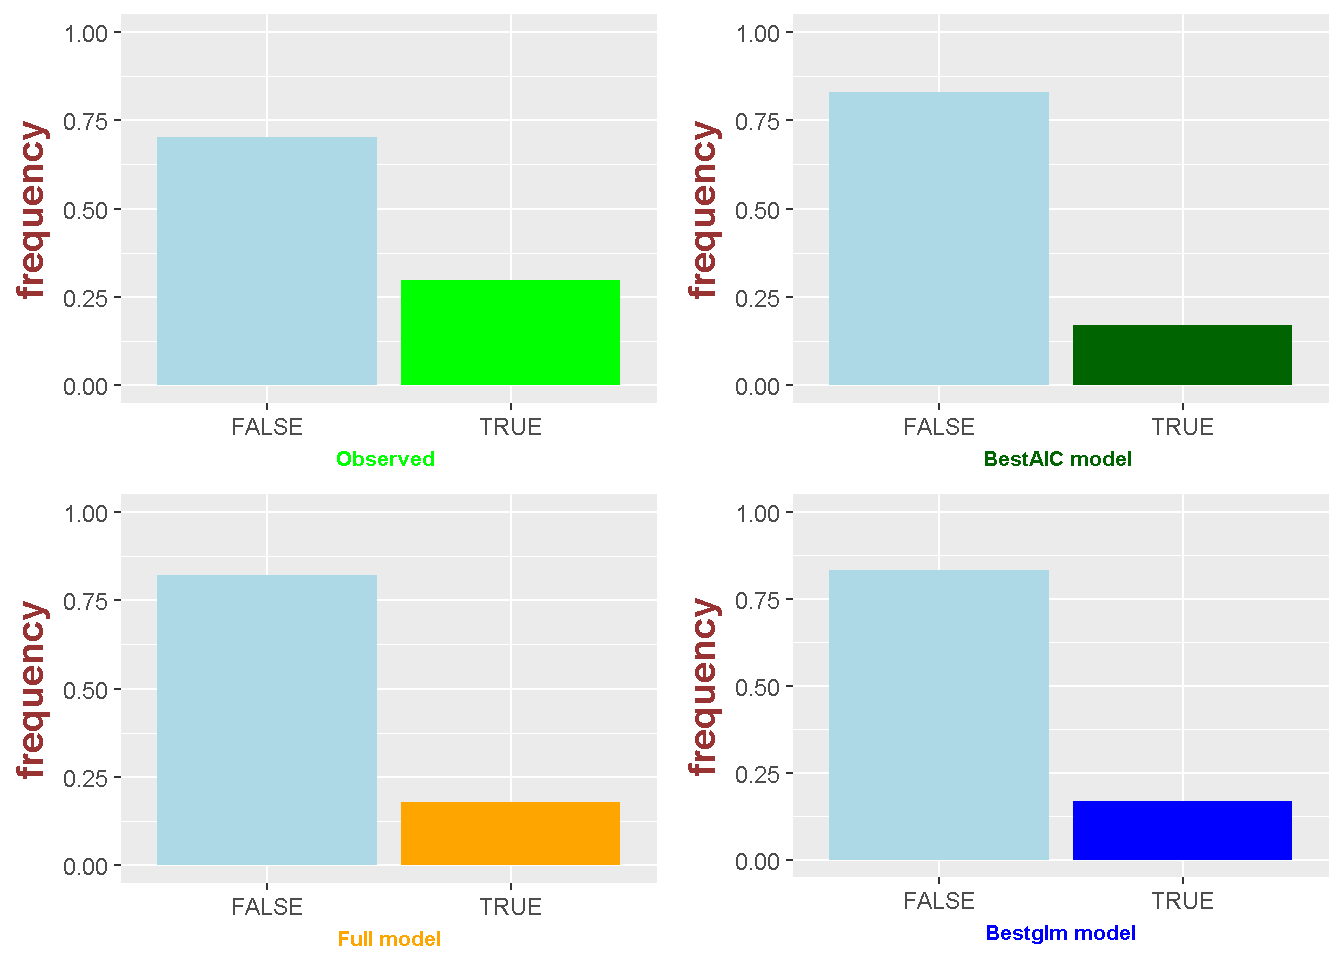
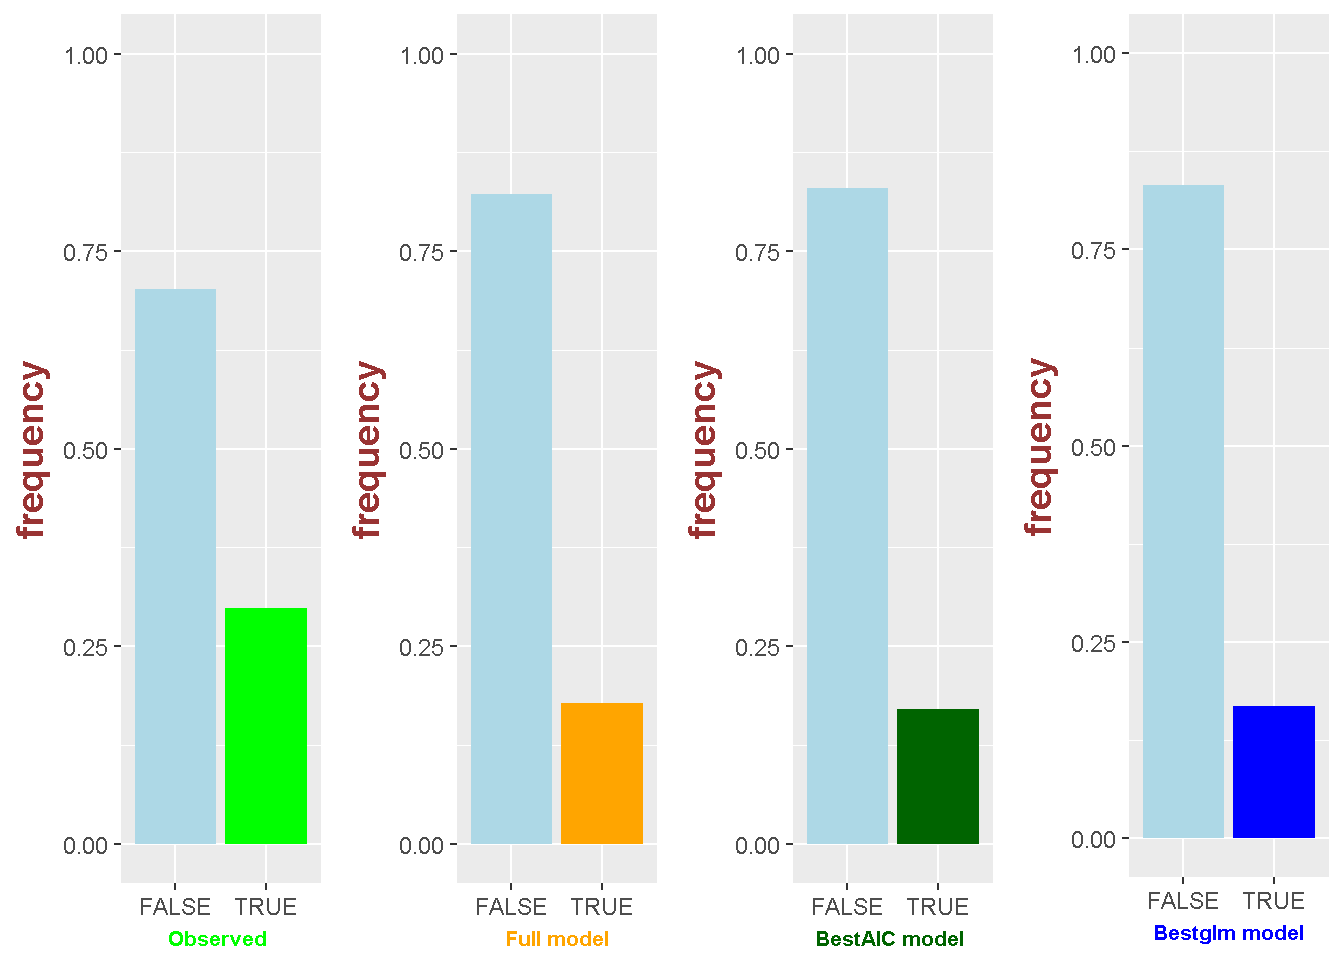
Last commit

diff --git a/chapter3.html b/chapter3.html
@@ -450,16 +450,14 @@ loss_func(class = alc_study$high_use, alc_study$probability)#Training error of t
 <h3>Cross validation</h3>
 <p>Cross-validation tests the model on unseen data, i.e. data not used for generating the model. The lower the value the more accurate the model. Cross-validation can also be used to compare models.</p>
 <pre class="r"><code>#Errors computed and stored
-cv &lt;- cv.glm(data = alc_study, cost = loss_func, glmfit = m2, K = 10)
-cv$delta[1] # Print the average number of wrong predictions.</code></pre>
-<pre><code>## [1] 0.2643979</code></pre>
+cv &lt;- cv.glm(data = alc_study, cost = loss_func, glmfit = m2, K = 10)</code></pre>
 <p>A ten-fold cross-validation shows that on average approximately 26% of the observations are missclassified under our model with three explanatory variables: sex, famrel and absencees. The average number of wrong predictions in the cross-validation is thus about the same as in the DataCamp exercise (26%).</p>
 <p>However, if the goal of a study like this would be to identify, and thereafter to implement measures to control risk factors for high alcohol usage we would not succeed very well. It seems that the model is still missing relevant risk factors. Thus, I will try to improve the model by including another variable, namely <span style="color:orange">age</span>, in the model.</p>
 <pre class="r"><code>mbetter&lt;-glm(high_use~famrel+absences+sex+age,family=binomial,data=alc)
 #Errors computed and stored
 cvbetter &lt;- cv.glm(data = alc, cost = loss_func, glmfit = mbetter, K = 10)
 cvbetter$delta[1] # Print the average number of wrong predictions.</code></pre>
-<pre><code>## [1] 0.2434555</code></pre>
+<pre><code>## [1] 0.2643979</code></pre>
 <p>Adding <span style="color:orange">age</span> to the model hardly improves the performance yielding just a little bit lower testing error.</p>
 </div>
 <div id="further-cross-validation-and-model-comparisons" class="section level3">
@@ -472,7 +470,7 @@ full&lt;-glm(high_use~.,family=binomial,data=alcs)
 #Errors computed and stored
 cvfull &lt;- cv.glm(data = alcs, cost = loss_func, glmfit = full, K = 10)
 cvfull$delta[1] # Print the average number of wrong predictions.</code></pre>
-<pre><code>## [1] 0.2303665</code></pre>
+<pre><code>## [1] 0.2382199</code></pre>
 <p>The full model based on this data set still has a reasonably high prediction error.</p>
 </div>
 <div id="model-reduction" class="section level4">
@@ -552,8 +550,8 @@ axis.title.x = element_text(color=&quot;blue&quot;, size=8, face=&quot;bold&quot
 axis.title.y = element_text(color=&quot;#993333&quot;, size=14, face=&quot;bold&quot;)
 )
 
-multiplot(ppobs, ppfull, ppAIC, ppbest,cols = 2)</code></pre>
[1 lines of base64/hex data omitted]
+multiplot(ppobs, ppfull, ppAIC, ppbest,cols = 4)</code></pre>
[1 lines of base64/hex data omitted]
 <table>
 <thead>
 <tr class="header">
@@ -583,8 +581,8 @@ multiplot(ppobs, ppfull, ppAIC, ppbest,cols = 2)</code></pre>
 </div>
 <div id="final-model-with-the-lowest-testing-error" class="section level4">
 <h4>Final model with the lowest testing error</h4>
-<p>The last model uses best subsets approach aiming to find out the best fit model from all possible subset models. It has only four predictors: sex, absences, family relationships and going out with friends. Using cross-validation it yield a test error of just below 22%, i.e. predicting almost 78% right.</p>
-<p>To conclude, the results of the final model as odds ratios with confidence intervals and summary statistis:</p>
+<p>The last model uses best subsets approach aiming to find out the best fit model from all possible subset models. It has <em>only four</em> explanatory variables: sex, absences, family relationships and going out with friends. Using cross-validation it yield a test error of just below 22%, i.e. predicting almost 78% right.</p>
+<p>To conclude, the results of the final model as odds ratios with confidence intervals:</p>
 <pre class="r"><code>stargazer(mbest, coef = list(OR.vector), ci = T, 
           ci.custom = list(CI.vector), p = list(p.values), 
           single.row = T, type = &quot;html&quot;,

diff --git a/index.html b/index.html
@@ -650,16 +650,14 @@ loss_func(class = alc_study$high_use, alc_study$probability)#Training error of t
 <h3>Cross validation</h3>
 <p>Cross-validation tests the model on unseen data, i.e. data not used for generating the model. The lower the value the more accurate the model. Cross-validation can also be used to compare models.</p>
 <pre class="r"><code>#Errors computed and stored
-cv &lt;- cv.glm(data = alc_study, cost = loss_func, glmfit = m2, K = 10)
-cv$delta[1] # Print the average number of wrong predictions.</code></pre>
-<pre><code>## [1] 0.2696335</code></pre>
+cv &lt;- cv.glm(data = alc_study, cost = loss_func, glmfit = m2, K = 10)</code></pre>
 <p>A ten-fold cross-validation shows that on average approximately 26% of the observations are missclassified under our model with three explanatory variables: sex, famrel and absencees. The average number of wrong predictions in the cross-validation is thus about the same as in the DataCamp exercise (26%).</p>
 <p>However, if the goal of a study like this would be to identify, and thereafter to implement measures to control risk factors for high alcohol usage we would not succeed very well. It seems that the model is still missing relevant risk factors. Thus, I will try to improve the model by including another variable, namely <span style="color:orange">age</span>, in the model.</p>
 <pre class="r"><code>mbetter&lt;-glm(high_use~famrel+absences+sex+age,family=binomial,data=alc)
 #Errors computed and stored
 cvbetter &lt;- cv.glm(data = alc, cost = loss_func, glmfit = mbetter, K = 10)
 cvbetter$delta[1] # Print the average number of wrong predictions.</code></pre>
-<pre><code>## [1] 0.2513089</code></pre>
+<pre><code>## [1] 0.2539267</code></pre>
 <p>Adding <span style="color:orange">age</span> to the model hardly improves the performance yielding just a little bit lower testing error.</p>
 </div>
 <div id="further-cross-validation-and-model-comparisons" class="section level3">
@@ -672,7 +670,7 @@ full&lt;-glm(high_use~.,family=binomial,data=alcs)
 #Errors computed and stored
 cvfull &lt;- cv.glm(data = alcs, cost = loss_func, glmfit = full, K = 10)
 cvfull$delta[1] # Print the average number of wrong predictions.</code></pre>
-<pre><code>## [1] 0.2356021</code></pre>
+<pre><code>## [1] 0.2408377</code></pre>
 <p>The full model based on this data set still has a reasonably high prediction error.</p>
 </div>
 <div id="model-reduction" class="section level4">
@@ -752,8 +750,8 @@ axis.title.x = element_text(color=&quot;blue&quot;, size=8, face=&quot;bold&quot
 axis.title.y = element_text(color=&quot;#993333&quot;, size=14, face=&quot;bold&quot;)
 )
 
-multiplot(ppobs, ppfull, ppAIC, ppbest,cols = 2)</code></pre>
[1 lines of base64/hex data omitted]
+multiplot(ppobs, ppfull, ppAIC, ppbest,cols = 4)</code></pre>
[1 lines of base64/hex data omitted]
 <table>
 <thead>
 <tr class="header">
@@ -783,8 +781,8 @@ multiplot(ppobs, ppfull, ppAIC, ppbest,cols = 2)</code></pre>
 </div>
 <div id="final-model-with-the-lowest-testing-error" class="section level4">
 <h4>Final model with the lowest testing error</h4>
-<p>The last model uses best subsets approach aiming to find out the best fit model from all possible subset models. It has only four predictors: sex, absences, family relationships and going out with friends. Using cross-validation it yield a test error of just below 22%, i.e. predicting almost 78% right.</p>
-<p>To conclude, the results of the final model as odds ratios with confidence intervals and summary statistis:</p>
+<p>The last model uses best subsets approach aiming to find out the best fit model from all possible subset models. It has <em>only four</em> explanatory variables: sex, absences, family relationships and going out with friends. Using cross-validation it yield a test error of just below 22%, i.e. predicting almost 78% right.</p>
+<p>To conclude, the results of the final model as odds ratios with confidence intervals:</p>
 <pre class="r"><code>stargazer(mbest, coef = list(OR.vector), ci = T, 
           ci.custom = list(CI.vector), p = list(p.values), 
           single.row = T, type = &quot;html&quot;,
